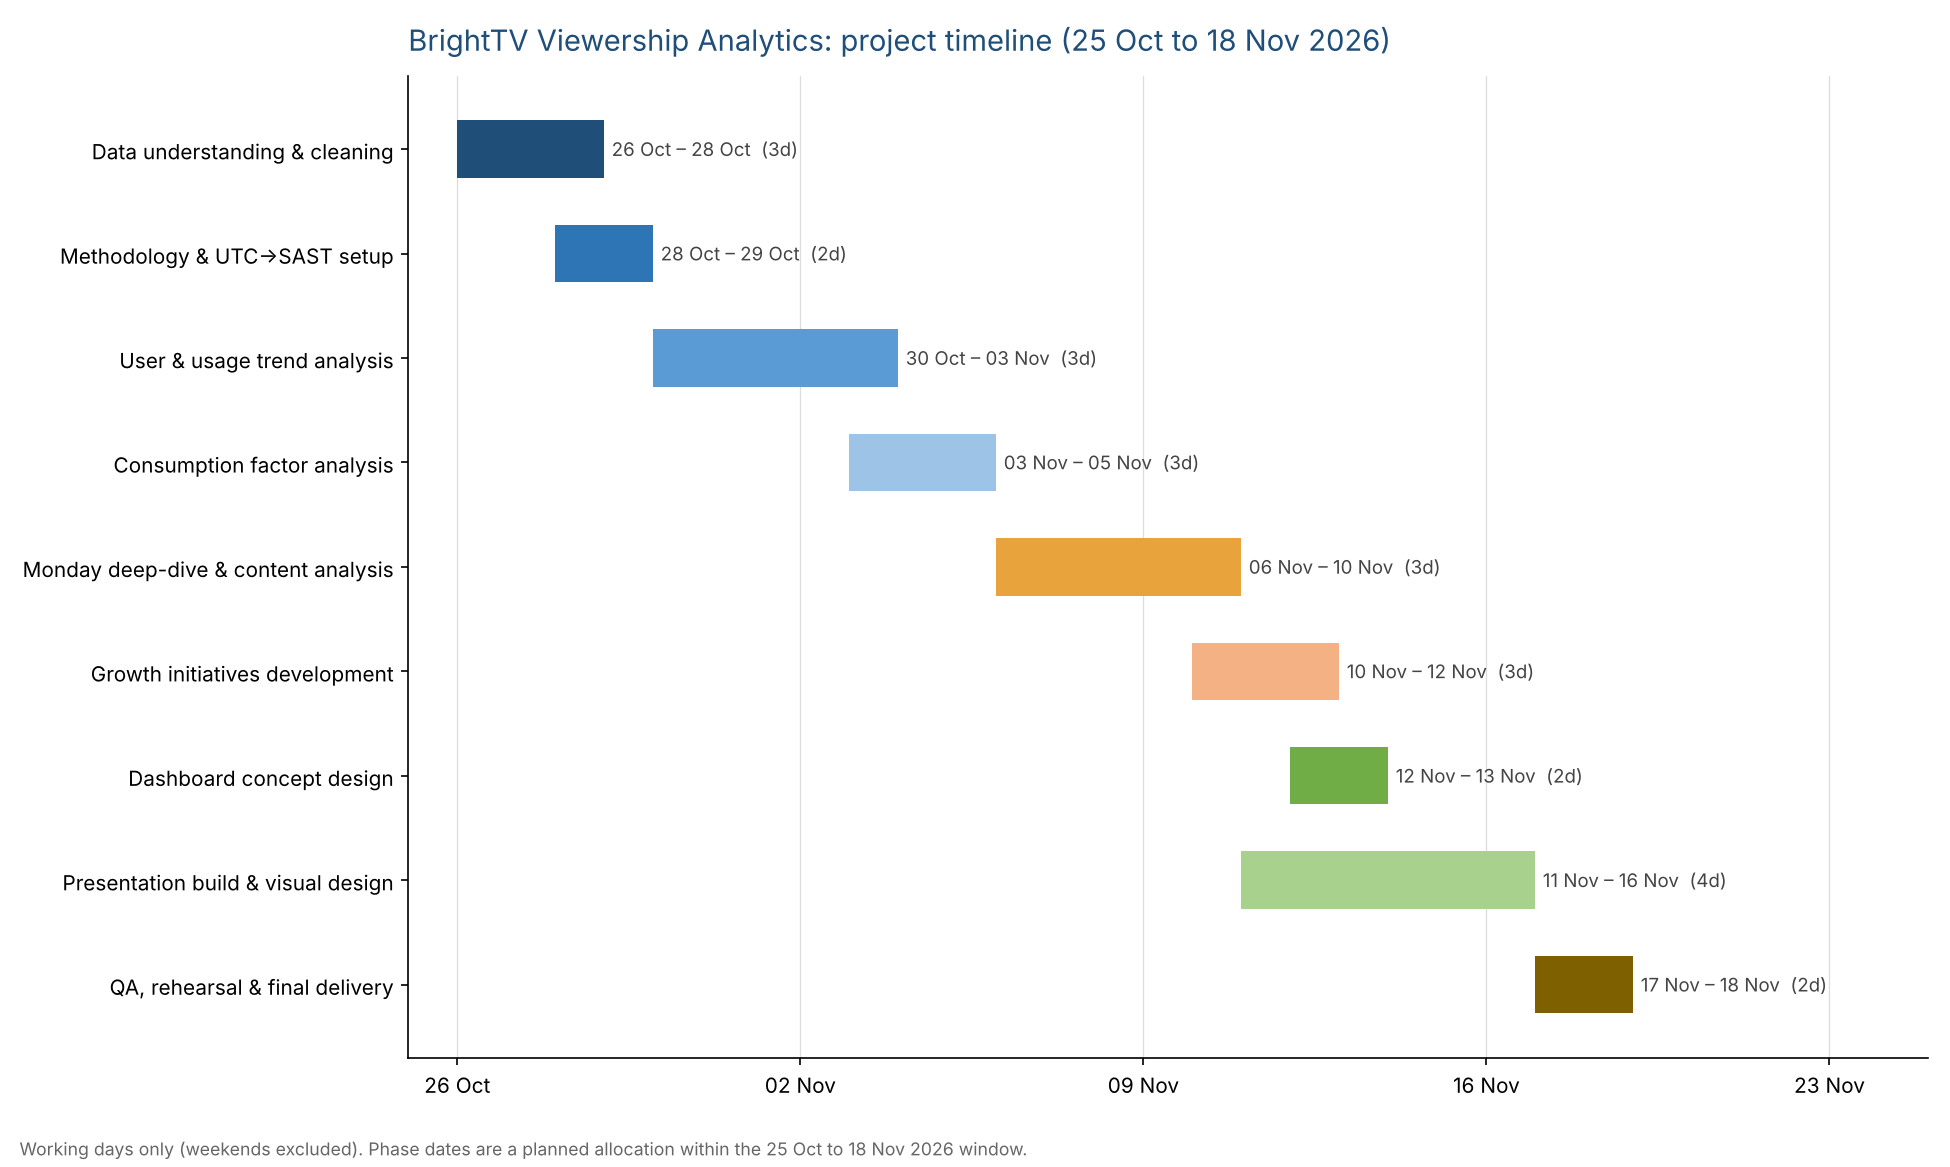
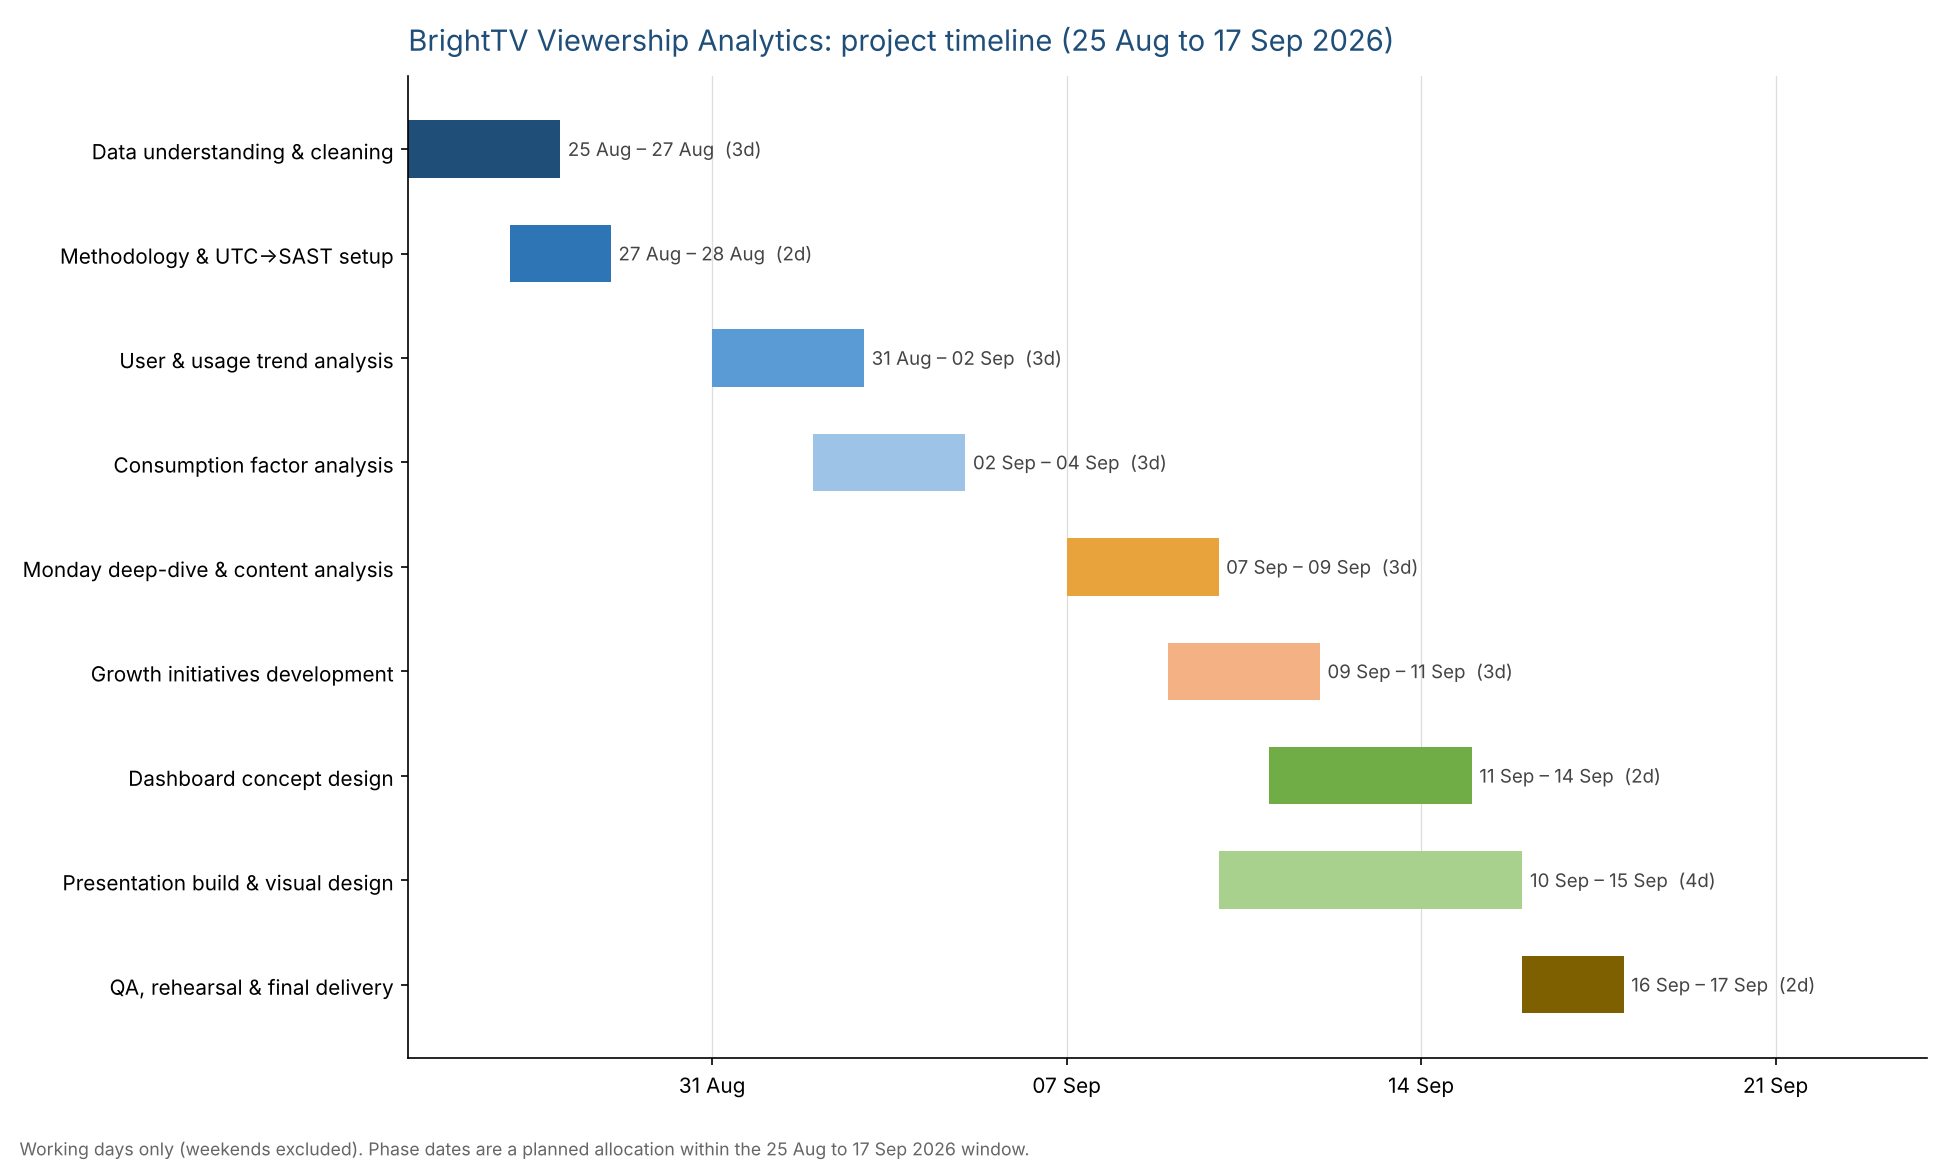
Update Gantt to 25 Aug to 17 Sep 2026 (about 3.5 weeks)

diff --git a/README.md b/README.md
@@ -106,8 +106,8 @@ methodology, trends, consumption factors, the Monday opportunity, and growth ini
 
 ## 📅 Project Timeline
 
-**`BrightTV_GanttChart.png`** — how this case study was delivered, from 26 October
-to 18 November 2026 (18 working days), from data cleaning through to final QA. Each
+**`BrightTV_GanttChart.png`** — how this case study was delivered, from 25 August
+to 17 September 2026 (18 working days, about 3.5 weeks), from data cleaning through to final QA. Each
 phase is shown with its start and end date.
 
 ![Gantt chart preview](BrightTV_GanttChart.png)
